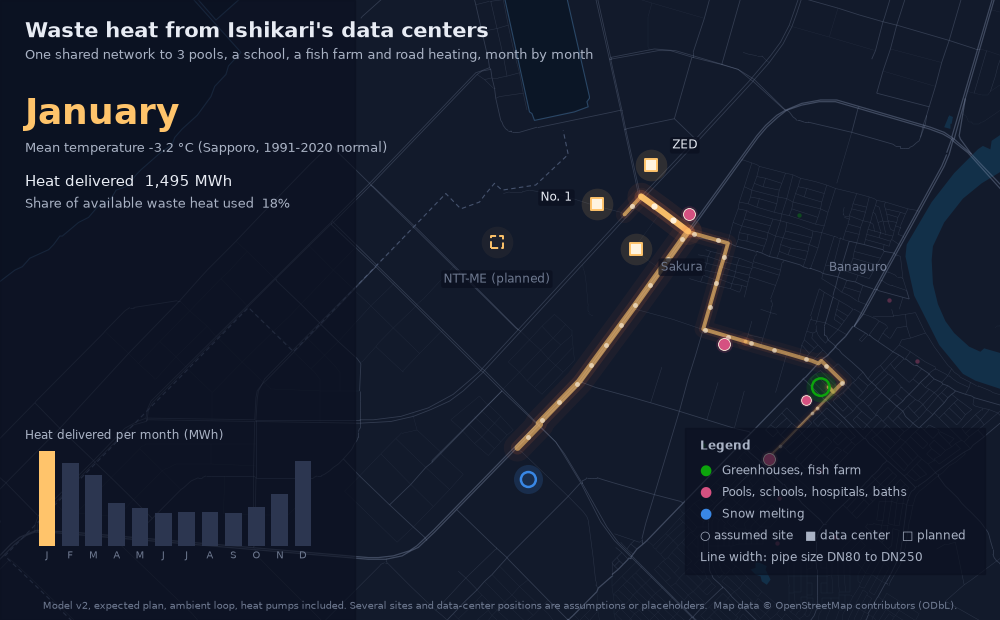
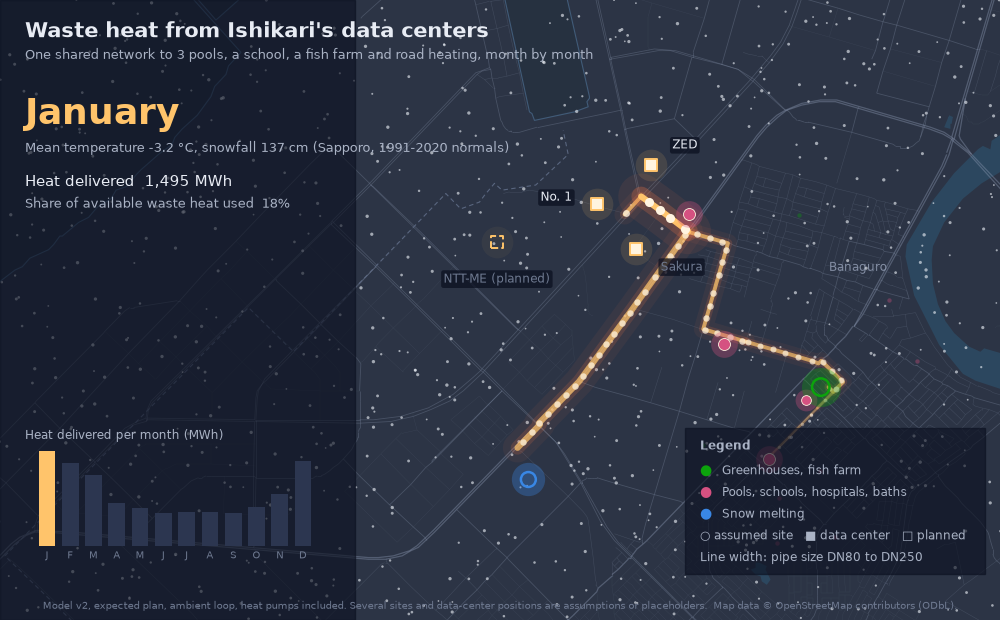
Animation follows the seasons: flows, snow and each site's own demand change by month

diff --git a/scripts/render_readme_animation.py b/scripts/render_readme_animation.py
@@ -3,7 +3,7 @@
 Inputs (not committed, rebuilt by scripts):
   out/heat_story/base.json          base map from scripts/export_heat_story.py (OpenStreetMap, ODbL)
   out/heat_network_v2/plans.json    model v2 plans from scripts/export_heat_network_v2.py
-Output: docs/img/heat-network.gif (and a still, docs/img/heat-network.png)
+Output: docs/img/heat-network-seasons.gif (and a still, docs/img/heat-network.png)
 
 Run: uv run python scripts/render_readme_animation.py [--plan expected|robust]
 """
@@ -22,6 +22,8 @@ import numpy as np  # noqa: E402
 from matplotlib.collections import LineCollection  # noqa: E402
 from matplotlib.patches import Polygon, Rectangle  # noqa: E402
 from PIL import Image  # noqa: E402
+
+from dcopt.heat.v1 import SNOW  # noqa: E402  JMA normals 1991-2020, Sapporo: monthly snowfall (cm)
 
 ROOT = Path(__file__).resolve().parents[1]
 BASE = ROOT / "out" / "heat_story" / "base.json"
@@ -125,10 +127,16 @@ def point_at(xy: np.ndarray, cl: np.ndarray, s: np.ndarray) -> np.ndarray:
 
 
 def main() -> None:
+    global W_PX, H_PX, DPI, OUT
     ap = argparse.ArgumentParser()
     ap.add_argument("--plan", default="expected", choices=["expected", "robust"])
     ap.add_argument("--frames", type=int, default=12, help="frames per month")
+    ap.add_argument("--width", type=int, default=W_PX, help="pixels; 1920 with --height 1080 --dpi 192 for slides")
+    ap.add_argument("--height", type=int, default=H_PX)
+    ap.add_argument("--dpi", type=int, default=DPI)
+    ap.add_argument("--out", default=str(OUT), help="folder for heat-network.gif and .png")
     args = ap.parse_args()
+    W_PX, H_PX, DPI, OUT = args.width, args.height, args.dpi, Path(args.out)
     base = json.loads(BASE.read_text(encoding="utf-8"))
     data = json.loads(PLANS.read_text(encoding="utf-8"))
     plan, dcs = data["plans"][args.plan], data["dcs"]
@@ -166,7 +174,12 @@ def main() -> None:
     reach = ", ".join(words[:-1]) + " and " + words[-1] if len(words) > 1 else words[0]
     rng = np.random.default_rng(7)
     for p in pipes:
-        p["phase"] = rng.uniform(0, 0.2)
+        p["phase"], p["pos"] = rng.uniform(0, 0.2), 0.0
+    n_flakes = 900                                                   # snow drifting down the map in winter
+    flakes = np.c_[rng.uniform(x0, x1, n_flakes), rng.uniform(y0, y1, n_flakes)]
+    flake_v = rng.uniform(0.012, 0.035, n_flakes) * (x1 - x0) / 10
+    flake_s = rng.uniform(1.5, 6.0, n_flakes) * (DPI / 100) ** 2
+    snow_max = float(max(SNOW))
 
     frames: list[Image.Image] = []
     n_per = args.frames
@@ -180,36 +193,57 @@ def main() -> None:
         ax = fig.add_axes([0, 0, 1, 1])
         ax.imshow(background, extent=(x0, x1, y0, y1), origin="upper", zorder=0)
         ax.set_xlim(x0, x1); ax.set_ylim(y0, y1); ax.set_aspect("equal"); ax.axis("off")
+        sc = (DPI / 100) ** 2                                       # marker areas scale with resolution
 
+        # Season: snow cover and falling snow follow the month's snowfall.
+        snow_k = ((1 - w) * SNOW[prev] + w * SNOW[m]) / snow_max
+        if snow_k > 0.01:
+            ax.add_patch(Rectangle((x0, y0), x1 - x0, y1 - y0, color="#dfe8f6", alpha=0.13 * snow_k, lw=0, zorder=1))
+        flakes[:, 1] -= flake_v
+        flakes[:, 0] += 0.004 * (x1 - x0) / 10 * np.sin(i / 6 + np.arange(n_flakes))
+        wrap = flakes[:, 1] < y0
+        flakes[wrap, 1] = y1
+        flakes[wrap, 0] = rng.uniform(x0, x1, int(wrap.sum()))
+        n_on = int(n_flakes * snow_k)
+        if n_on:
+            ax.scatter(flakes[:n_on, 0], flakes[:n_on, 1], s=flake_s[:n_on], c="#f2f6fc", alpha=0.6, lw=0, zorder=4)
+
+        # Heat: brightness, width, particle size and speed all follow the month's flow in each pipe.
         for p in pipes:
             flow = (1 - w) * p["monthly"][prev] + w * p["monthly"][m]
             k = flow / peak
-            lw = DN_WIDTH.get(p["dn"], 2.0)
-            for width, alpha in ((lw * 4.5, 0.07), (lw * 2.2, 0.18), (lw, 0.95)):
+            kk = math.sqrt(k)
+            lw = DN_WIDTH.get(p["dn"], 2.0) * DPI / 100
+            for width, alpha in ((lw * (2.5 + 5 * k), 0.08), (lw * (1.4 + 1.8 * k), 0.22), (lw, 1.0)):
                 ax.plot(p["xy"][:, 0], p["xy"][:, 1], color=C["heat_deep"] if width > lw else C["heat"],
-                        lw=width, alpha=alpha * (0.35 + 0.65 * k), solid_capstyle="round", zorder=5)
+                        lw=width, alpha=alpha * (0.15 + 0.85 * kk), solid_capstyle="round", zorder=5)
             L = p["cl"][-1]
-            if L > 0 and k > 0.01:
-                spacing = 0.16
+            p["pos"] += (0.003 + 0.12 * k) * (x1 - x0) / 10            # km per frame
+            if L > 0 and k > 0.003:
+                spacing = 0.13 * (x1 - x0) / 10
                 n = max(1, int(L / spacing))
-                speed = 0.012 + 0.05 * k                           # km per frame
-                s = (p["phase"] + i * speed + np.arange(n) * spacing) % L
+                s = (p["phase"] + p["pos"] + np.arange(n) * spacing) % L
                 pts = point_at(p["xy"], p["cl"], s)
-                ax.scatter(pts[:, 0], pts[:, 1], s=6 + 14 * k, c=C["core"], alpha=0.35 + 0.6 * k, lw=0, zorder=6)
+                ax.scatter(pts[:, 0], pts[:, 1], s=(3 + 40 * k) * sc, c=C["core"], alpha=0.15 + 0.85 * kk, lw=0,
+                           zorder=6)
 
         for st in sites:
             x, y = pr(st["lon"], st["lat"])
             g = GROUP.get(st["kind"], "building")
-            size = 18 + 140 * math.sqrt(st["annual"] / 5000)
+            size = (18 + 140 * math.sqrt(st["annual"] / 5000)) * sc
             if st["dc"]:
-                share = ((1 - w) * st["served"][prev] + w * st["served"][m]) / served_peak
-                ax.scatter([x], [y], s=size * (1.6 + 2.2 * share), c=GROUP_COLOR[g], alpha=0.18, lw=0, zorder=7)
+                own_peak = max(st["served"]) or 1                   # each site pulses with its own season
+                share = ((1 - w) * st["served"][prev] + w * st["served"][m]) / own_peak
+                ax.scatter([x], [y], s=size * (1.0 + 4.0 * share), c=GROUP_COLOR[g], alpha=0.06 + 0.26 * share, lw=0,
+                           zorder=7)
                 if st["assumed"]:
-                    ax.scatter([x], [y], s=size, facecolors="none", edgecolors=GROUP_COLOR[g], lw=1.8, zorder=8)
+                    ax.scatter([x], [y], s=size, facecolors="none", edgecolors=GROUP_COLOR[g], lw=1.8 * DPI / 100,
+                               alpha=0.35 + 0.65 * share, zorder=8)
                 else:
-                    ax.scatter([x], [y], s=size, c=GROUP_COLOR[g], edgecolors=C["core"], lw=0.6, zorder=8)
+                    ax.scatter([x], [y], s=size, c=GROUP_COLOR[g], edgecolors=C["core"], lw=0.6 * DPI / 100,
+                               alpha=0.4 + 0.6 * share, zorder=8)
             else:
-                ax.scatter([x], [y], s=10, c=GROUP_COLOR[g], alpha=0.35, lw=0, zorder=4)
+                ax.scatter([x], [y], s=10 * sc, c=GROUP_COLOR[g], alpha=0.35, lw=0, zorder=4)
 
         for d in dcs:
             x, y = pr(d["lon"], d["lat"])
@@ -231,8 +265,8 @@ def main() -> None:
         fig.text(tx, 0.94, "Waste heat from Ishikari's data centers", color=C["ink"], fontsize=15, weight="bold")
         fig.text(tx, 0.905, f"One shared network to {reach}, month by month", color=C["ink2"], fontsize=9.5)
         fig.text(tx, 0.80, MONTHS_LONG[m], color=C["heat"], fontsize=26, weight="bold")
-        fig.text(tx, 0.755, f"Mean temperature {data['temp'][m]:+.1f} °C (Sapporo, 1991-2020 normal)",
-                 color=C["ink2"], fontsize=9)
+        fig.text(tx, 0.755, f"Mean temperature {data['temp'][m]:+.1f} °C, snowfall {SNOW[m]} cm "
+                 "(Sapporo, 1991-2020 normals)", color=C["ink2"], fontsize=9)
         fig.text(tx, 0.70, f"Heat delivered  {delivered[m]:,.0f} MWh", color=C["ink"], fontsize=11)
         used = delivered[m] / waste[m] if waste[m] else 0
         fig.text(tx, 0.665, f"Share of available waste heat used  {used:.0%}", color=C["ink2"], fontsize=9.5)
@@ -272,15 +306,18 @@ def main() -> None:
 
     OUT.mkdir(parents=True, exist_ok=True)
     frames[n_per - 1].save(OUT / "heat-network.png", optimize=True)
-    sample = Image.new("RGB", (W_PX, H_PX * 4))
+    sample = Image.new("RGB", (W_PX, H_PX * 4 + 80))
     for j, idx in enumerate([n_per - 1, 3 * n_per - 1, 6 * n_per - 1, 9 * n_per - 1]):
         sample.paste(frames[idx], (0, H_PX * j))
+    keys = [C["heat"], C["heat_deep"], C["core"], C["ink"], C["ink2"], *GROUP_COLOR.values(), "#f2f6fc"]
+    for j, hexc in enumerate(keys):                          # key colours keep palette entries of their own
+        sample.paste(Image.new("RGB", (60, 80), hexc), (j * 60, H_PX * 4))
     palette = sample.quantize(colors=255, method=Image.Quantize.MEDIANCUT, dither=Image.Dither.NONE)
     pal_frames = [fr.quantize(palette=palette, dither=Image.Dither.NONE) for fr in frames]
     durations = [90] * len(pal_frames)
-    pal_frames[0].save(OUT / "heat-network.gif", save_all=True, append_images=pal_frames[1:], duration=durations,
+    pal_frames[0].save(OUT / "heat-network-seasons.gif", save_all=True, append_images=pal_frames[1:], duration=durations,
                        loop=0, optimize=True, disposal=1)
-    print("wrote", OUT / "heat-network.gif", f"{(OUT / 'heat-network.gif').stat().st_size / 1e6:.1f} MB,",
+    print("wrote", OUT / "heat-network-seasons.gif", f"{(OUT / 'heat-network-seasons.gif').stat().st_size / 1e6:.1f} MB,",
           len(frames), "frames")
 
 

diff --git a/README.ja.md b/README.ja.md
@@ -4,7 +4,7 @@
 
 [English](README.md)
 
-![石狩の2つのデータセンターの排熱が、月ごとにプール3か所・中学校・陸上養殖・道路融雪へ流れる様子](docs/img/heat-network.gif)
+![石狩の2つのデータセンターの排熱が、月ごとにプール3か所・中学校・陸上養殖・道路融雪へ流れる様子](docs/img/heat-network-seasons.gif)
 
 *改良版モデル（v2）の期待値最大化の計画です。1本の共同の導管網で、石狩湾新港の2つのデータセンターの排熱を、プール3か所・中学校・陸上養殖・道路融雪に届けます。線の太さは管の太さを、下の棒グラフは月ごとに届けた熱を表します。施設とデータセンターの位置には、仮定や仮置きのものが含まれます（[データと出典](#データと出典)）。地図データ © OpenStreetMap contributors（ODbL）。*
 

diff --git a/README.md b/README.md
@@ -4,7 +4,7 @@
 
 [日本語版 / Japanese](README.ja.md)
 
-![Waste heat flowing from two Ishikari data centers to three pools, a school, a fish farm and road heating, month by month](docs/img/heat-network.gif)
+![Waste heat flowing from two Ishikari data centers to three pools, a school, a fish farm and road heating, month by month](docs/img/heat-network-seasons.gif)
 
 *Model v2, expected plan. One shared network carries waste heat from two data centers in the Ishikari Bay New Port to three pools, a school, a fish farm and road heating. Line width shows the pipe size, and the bars show the heat delivered each month. Several sites and data-center positions are assumptions or placeholders ([Data and sources](#data-and-sources)). Map data © OpenStreetMap contributors (ODbL).*
 
